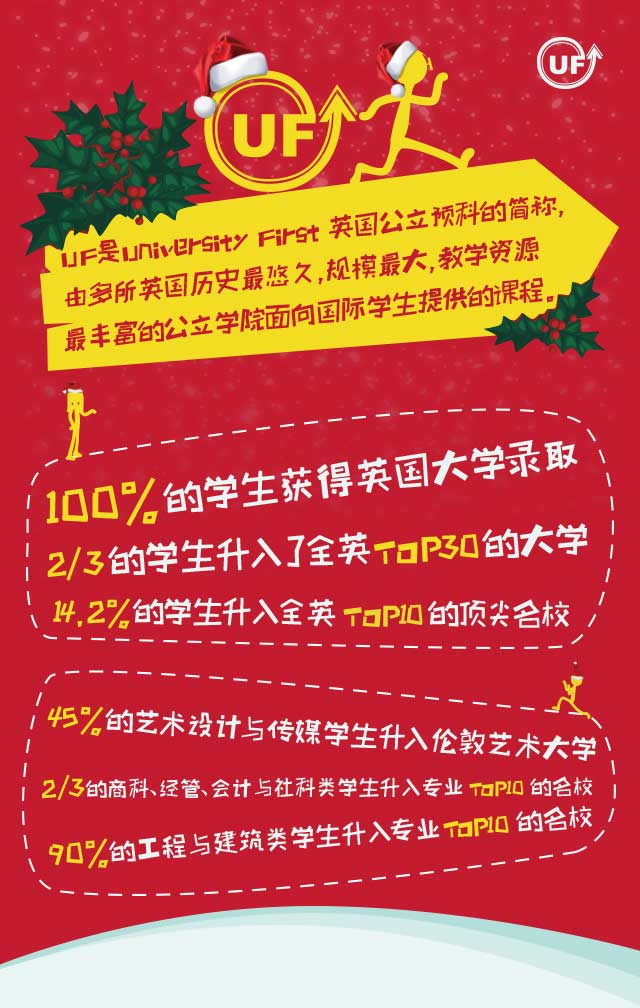
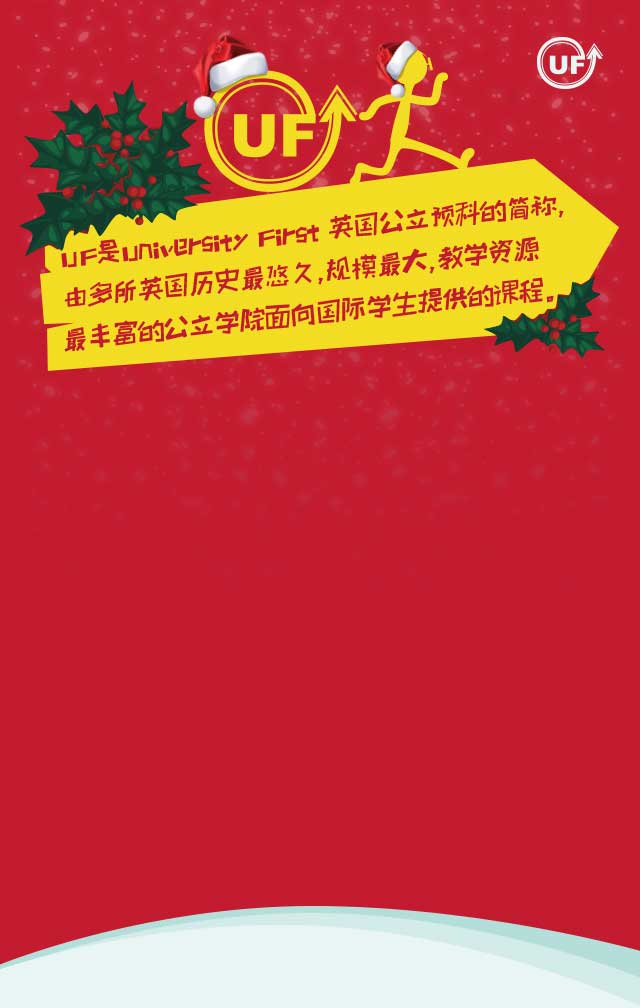
add animation

Changed region(s): [[0.0312, 0.369, 0.9688, 0.8919], [0.6875, 0.8611, 0.7188, 0.8919], [0.4375, 0.3998, 0.4688, 0.4306]]

diff --git a/university1/index.html b/university1/index.html
@@ -157,6 +157,32 @@ body {
 	background-size: 100% 100%;
 }
 
+.page4-text1 {
+	width: 294px;
+	height: 134px;
+	background: url(assets/images/page4-text1.png) no-repeat;
+	background-size: contain;
+    position: absolute;
+    top: 190px;
+	left: 50%;
+	margin-left: -147px;
+	-webkit-animation: shake 0.8s infinite ease 0.5s;
+	animation: shake 0.8s infinite ease 0.5s;
+}
+
+.page4-text2 {
+	width: 297px;
+	height: 118px;
+	background: url(assets/images/page4-text2.png) no-repeat;
+	background-size: contain;
+    position: absolute;
+    top: 324px;
+    left: 50%;
+	margin-left: -147px;
+	-webkit-animation: shake 0.8s infinite ease 0.5s;
+	animation: shake 0.8s infinite ease 0.5s;
+}
+
 .page5 {
 	background: url(assets/images/page5.jpg) no-repeat;
 	background-size: 100% 100%;
@@ -546,6 +572,8 @@ audio {
 			</div>
 			<div class="slide">
 				<div class="painting page4">
+					<div class="page4-text1"></div>
+					<div class="page4-text2"></div>
 					<div class="next"></div>
 				</div>
 			</div>
